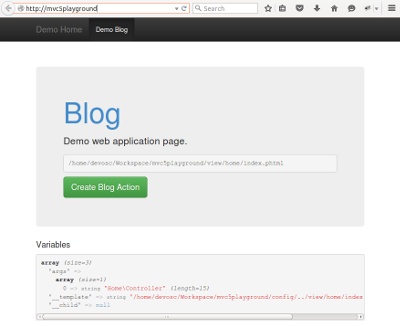
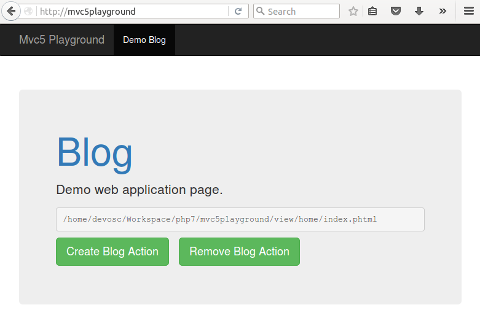
demo application

diff --git a/getting-started/directory-structure.md b/getting-started/directory-structure.md
@@ -20,10 +20,10 @@
   </div>
   <div class="media-body">
   <h4 id="application-directory">Application</h4>
-    <p>The <a href="https://github.com/mvc5/mvc5-application/tree/master/config">config</a> directory contains the php array configuration files that includes and overrides the default framework configuration. These configuration files can also be <a href="/overview/#environment-aware">environment aware</a>.</p>
+    <p>The <a href="https://github.com/mvc5/mvc5-application/tree/master/config">config</a> directory contains the php array configuration files that includes and overrides the <a href="https://github.com/mvc5/mvc5/tree/master/config">Mvc5 configuration</a>. These configuration files can also be <a href="/overview/#environment-aware">environment aware</a>.</p>
     <p>The <a href="https://github.com/mvc5/mvc5-application/tree/master/public">public</a> directory is the web site document root and contains the main <a href="https://github.com/mvc5/mvc5-application/blob/master/public/index.php">index.php</a> script.</p>
     <p>The <a href="https://github.com/mvc5/mvc5-application/tree/master/src">src</a> directory contains the application class files and uses the <a href="http://www.php-fig.org/psr/psr-4/">PSR-4</a> autoloading standard.</p>
-    <p>The vendor directory is used for external libraries including the <a href="#mvc5-directory">mvc5</a> directory.</p>
+    <p>The <a href="https://getcomposer.org/doc/01-basic-usage.md#installing-dependencies">vendor</a> directory is used for external libraries including the <a href="#mvc5-directory">mvc5</a> directory.</p>
     <p>The <a href="https://github.com/mvc5/mvc5-application/tree/master/view">view</a> directory contains the view model templates.</p>
   </div>
 </div>

diff --git a/getting-started/demo-application.md b/getting-started/demo-application.md
@@ -1,24 +1,7 @@
 ## Demo Application
-<ol>
-    <li>
-        <p>Download the demo application.</p>
-        <p style="margin-top:20px;">
-            <a class="btn btn-default btn-lg" href="https://github.com/mvc5/mvc5-application/archive/master.zip"><span class="glyphicon glyphicon-download"></span> Demo Application</a>
-        </p>
-    </li>
-    <li>
-        <p>Extract archive and rename directory to <b>mvc5playground</b>.</p>
-        <pre><code class="language-php">$ unzip ./mvc5-application-master.zip</code></pre>
-        <pre><code class="language-php">$ mv mvc5-application-master mvc5playground</code></pre>
-    </li>
-    <li>
-        <p>Install composer.</p>
-        <pre><code class="language-php">$ cd mvc5playground<br>$ composer.phar install --no-dev</code></pre>
-    </li>
-    <li>
-        <p>Open the demo application in a web browser. The document root should point to the <code>public</code> directory.</p>
-        <div class="thumbnail" style="border:none;">
-            <img style="margin-left:0;" src="/images/mvc5playground.png" width="400" height="338" title="Mvc5 Demo Application">
-        </div>
-    </li>
-</ol>
+<p>The easiest way to get started is to install the <a href="https://github.com/mvc5/mvc5-application">demo application</a>.</p>
+<pre><code class="language-php">$ composer.phar create mvc5/mvc5-application mvc5playground</code></pre>
+<p style="margin-top:20px;">The document root should point to the <a href="https://github.com/mvc5/mvc5-application/tree/master/public"><code>public</code></a> directory.</p>
+<div class="thumbnail" style="border:none;">
+    <img style="margin-left:0;" src="/images/mvc5playground.png" width="480" height="320" title="Mvc5 Demo Application">
+</div>

diff --git a/getting-started/create-a-web-page.md b/getting-started/create-a-web-page.md
@@ -1,5 +1,5 @@
 ## Create A Web Page
-<p class="text-info">Copy and paste the example code into each new file.</p>
+<h6 class="text-info">Copy and paste the example code into each new file.</h6>
 <p style="margin-top:25px;"><a id="view-model"></a><b>1.</b> Create a new view model file in the <a href="https://github.com/mvc5/mvc5-application/tree/master/src/Home">src/Home</a> directory named <a href="https://github.com/mvc5/mvc5-application/tree/master/src/Home/Model.php">Model.php</a>.</p>
 <pre style="line-height:1"><code><?php
 
@@ -71,5 +71,5 @@ return [
 ];</code></pre>
 <p>Open the demo application in a web browser. It will display the hello world message on the home page. Read more about <a href="/overview/#routes">routes</a>.</p>
 <div class="thumbnail" style="border:none;">
-    <img style="margin-left:0;" src="/images/demo-homepage.png" width="435" height="131" title="Demo Home Page">
+    <img style="margin-left:0;" src="/images/demo-homepage.png" width="435" height="128" title="Demo Home Page">
 </div>

diff --git a/getting-started/source-code.md b/getting-started/source-code.md
@@ -1,5 +1,7 @@
 ## Source Code
-<p>The Mvc5 Framework has no external dependencies and can be downloaded separately or <a href="#composer-install">installed via composer</a>. However, the best way to explore the Mvc5 Framework is to install the <a href="#demo-application">demo application</a>.</p>
+<p>The <a href="https://github.com/mvc5/mvc5">Mvc5 Framework</a> has no external dependencies and can be <a href="https://github.com/mvc5/mvc5/releases/latest">downloaded</a> separately.</p>
 <p style="margin-top:20px;">
-    <a class="btn btn-default btn-lg" href="https://github.com/mvc5/mvc5/releases/latest"><span class="glyphicon glyphicon-hand-right"></span> Latest Release</a>
+    <a class="btn btn-default btn-lg" href="https://github.com/mvc5/mvc5/releases/latest"><span class="glyphicon glyphicon-download"></span> Latest Release</a>
 </p>
+<p style="margin-top:20px;">Or installed using <a href="https://getcomposer.org">Composer</a>.</p>
+<pre><code>$ composer.phar require mvc5/mvc5</code></pre>

diff --git a/getting-started/sidebar.md b/getting-started/sidebar.md
@@ -1,7 +1,6 @@
 <nav data-spy="affix" data-offset-top="286" id="sidebar" role="navigation">
     <ul class="nav nav-pills nav-stacked">
         <li role="presentation"><a href="#source-code">Source Code</a></li>
-        <li role="presentation"><a href="#composer-install">Composer Install</a></li>
         <li role="presentation"><a href="#demo-application">Demo Application</a></li>
         <li role="presentation"><a href="#directory-structure">Directory Structure</a></li>
         <li role="presentation"><a href="#create-a-web-page">Create A Web Page</a></li>

diff --git a/getting-started/index.md b/getting-started/index.md
@@ -5,7 +5,6 @@ tagline: Download and explore the demo application
 scrollspy: sidebar
 ---
 {% include_relative source-code.md %}
-{% include_relative composer-install.md %}
 {% include_relative demo-application.md %}
 {% include_relative directory-structure.md %}
 {% include_relative create-a-web-page.md %}
